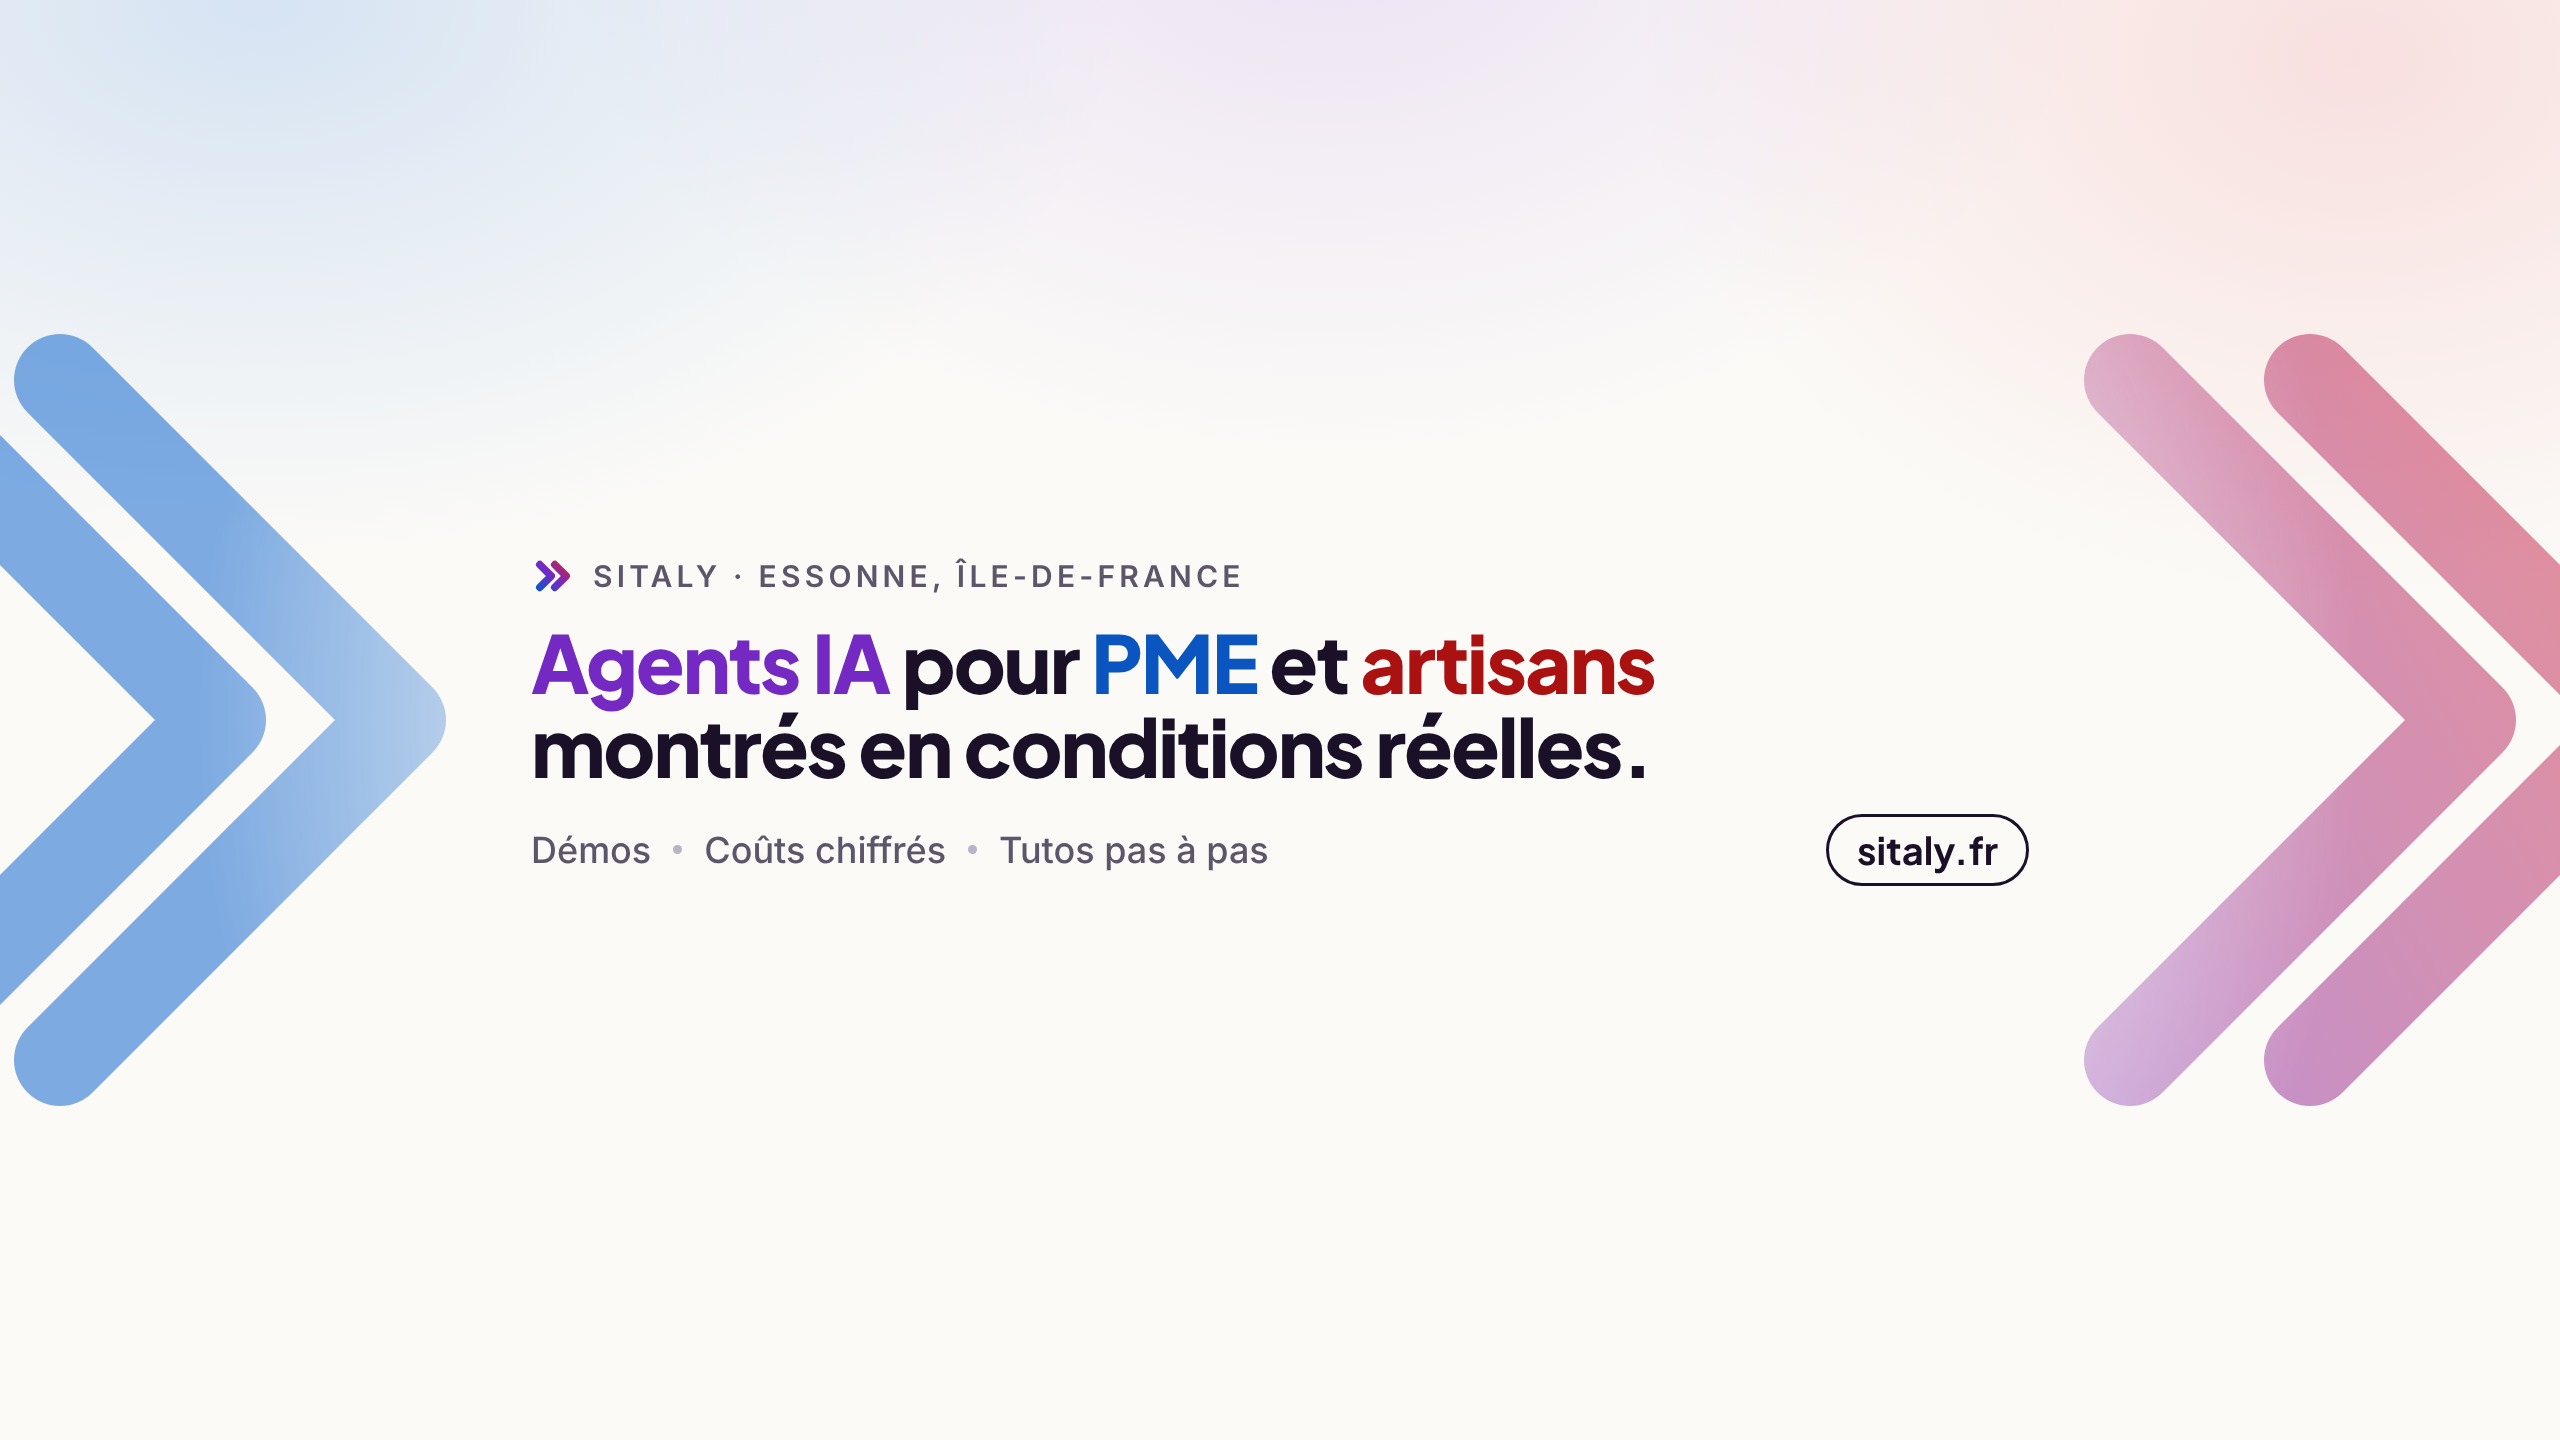
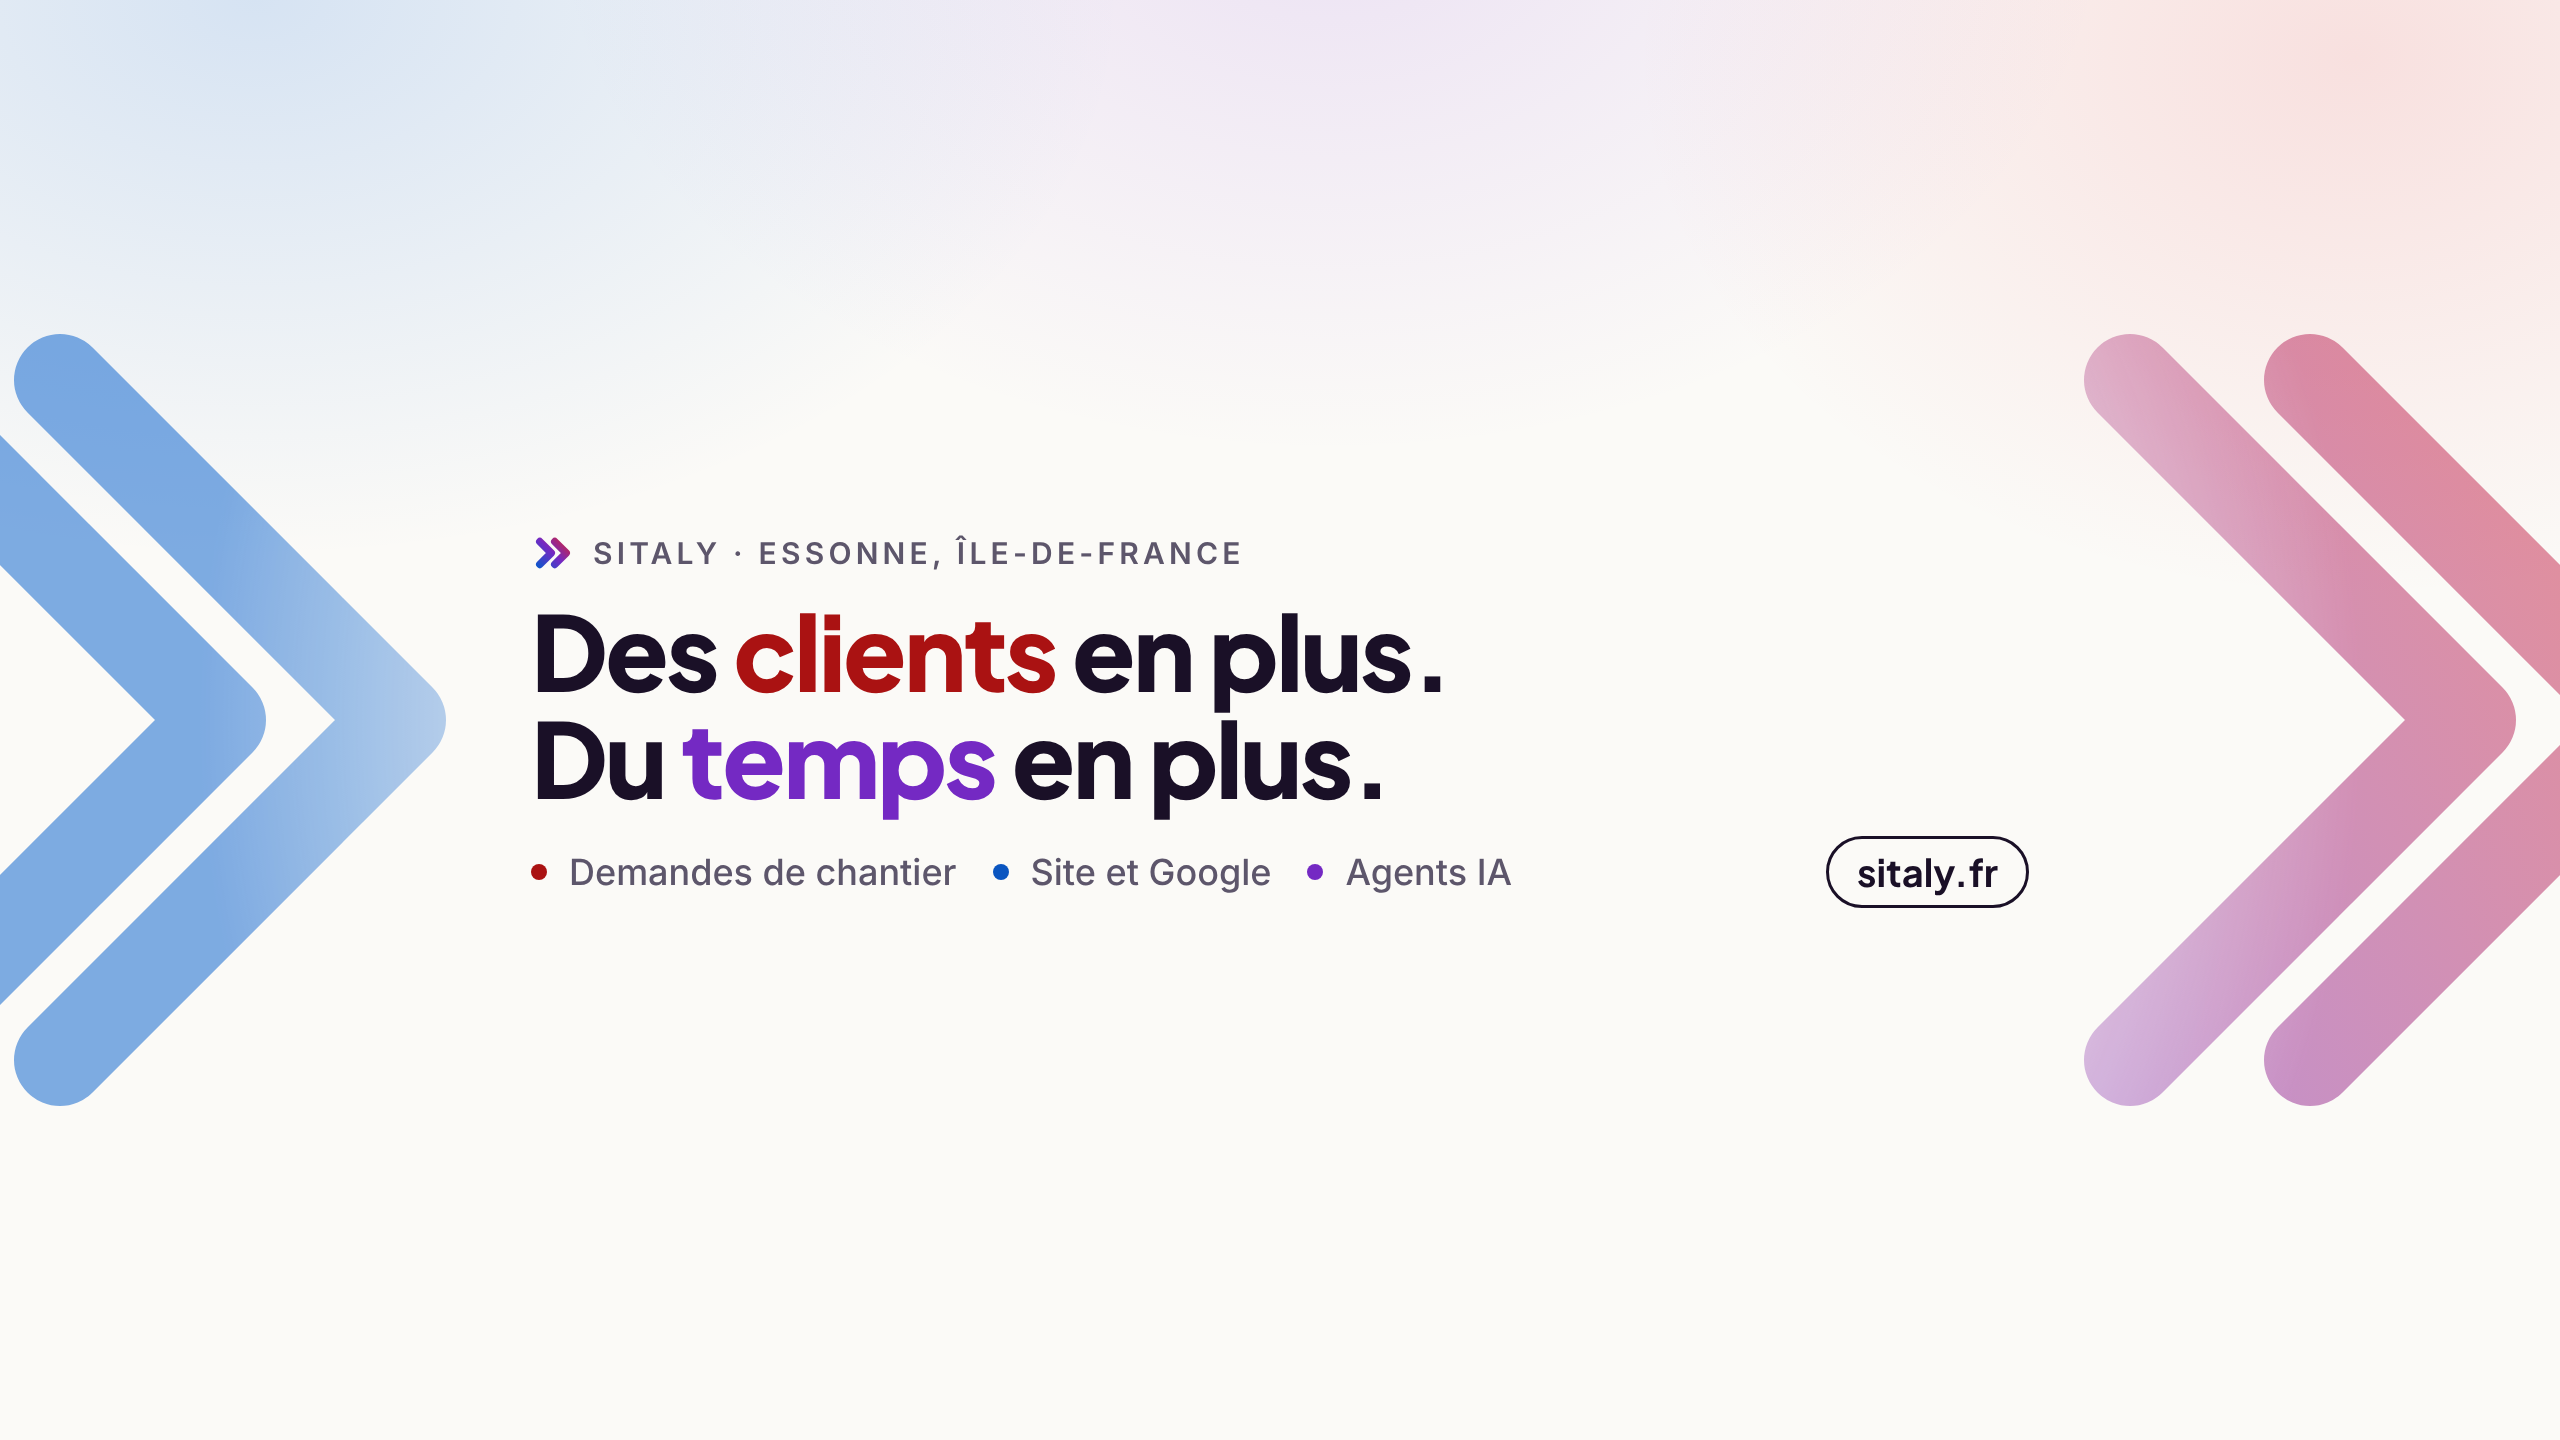
YouTube : bannière et textes recentrés sur l'apport de clients
Claude-Session: https://claude.ai/code/session_01G9SzTYsADUa43EyuhgWyrX

Changed region(s): [[0.1875, 0.375, 0.6562, 0.625], [0.7188, 0.5625, 0.7812, 0.625]]

diff --git a/brand/youtube/banniere-youtube.html b/brand/youtube/banniere-youtube.html
@@ -16,10 +16,10 @@ svg.deco{position:absolute;inset:0}
 .safe{position:absolute;left:507px;top:508px;width:1546px;height:423px;display:flex;flex-direction:column;justify-content:center;align-items:stretch;padding:0 24px}
 .eyebrow{font:600 30px/1 "Inter";letter-spacing:.14em;text-transform:uppercase;color:var(--muted);display:flex;align-items:center;gap:18px}
 .eyebrow svg{width:44px;height:44px}
-h1{margin-top:22px;font:800 80px/1.05 "Jakarta";letter-spacing:-.025em;color:var(--ink)}
+h1{margin-top:22px;font:800 104px/1.02 "Jakarta";letter-spacing:-.025em;color:var(--ink)}
 h1 .p{color:var(--purple)} h1 .b{color:var(--blue)} h1 .r{color:var(--red)}
 .row{margin-top:26px;display:flex;align-items:center;gap:22px;font:500 36px/1 "Inter";color:var(--muted)}
-.row i{width:9px;height:9px;border-radius:50%;background:#b9b3c4;display:block}
+.row .d{width:16px;height:16px;border-radius:50%;display:block;margin-left:14px}.row .d:first-child{margin-left:0}.row .d.r{background:var(--red)}.row .d.b{background:var(--blue)}.row .d.p{background:var(--purple)}
 .url{margin-left:auto;font:700 38px/1 "Jakarta";color:var(--ink);padding:14px 28px;border:3px solid var(--ink);border-radius:999px}
 .guide .safe{outline:4px dashed #e0115f}
 .guide .desk{position:absolute;left:0;top:508px;width:2560px;height:423px;outline:4px dashed #0a55c0}
@@ -37,8 +37,8 @@ h1 .p{color:var(--purple)} h1 .b{color:var(--blue)} h1 .r{color:var(--red)}
 </g></svg>
 <div class="safe">
   <div class="eyebrow"><svg viewBox="0 0 100 100"><defs><linearGradient id="s" gradientUnits="userSpaceOnUse" x1="12" y1="88" x2="88" y2="12"><stop offset="0" stop-color="#005ccc"/><stop offset=".5" stop-color="#7429c3"/><stop offset="1" stop-color="#df2321"/></linearGradient></defs><g fill="none" stroke="url(#s)" stroke-width="17" stroke-linecap="round" stroke-linejoin="round"><path d="M20 24 46 50 20 76"/><path d="M54 24 80 50 54 76"/></g></svg>Sitaly · Essonne, Île-de-France</div>
-  <h1><span class="p">Agents IA</span> pour <span class="b">PME</span> et <span class="r">artisans</span><br>montrés en conditions réelles.</h1>
-  <div class="row"><span>Démos</span><i></i><span>Coûts chiffrés</span><i></i><span>Tutos pas à pas</span><span class="url">sitaly.fr</span></div>
+  <h1>Des <span class="r">clients</span> en plus.<br>Du <span class="p">temps</span> en plus.</h1>
+  <div class="row"><b class="d r"></b><span>Demandes de chantier</span><b class="d b"></b><span>Site et Google</span><b class="d p"></b><span>Agents IA</span><span class="url">sitaly.fr</span></div>
 </div>
 <div class="desk"></div>
 </div></body></html>

diff --git a/brand/youtube/youtube-textes.md b/brand/youtube/youtube-textes.md
@@ -6,25 +6,22 @@
 
 ## Description (YouTube Studio > Personnalisation > Informations de base)
 
-Agents IA pour PME et artisans : démos réelles, coûts chiffrés, tutos pas à pas.
+Des clients en plus, du temps en plus : Sitaly aide les artisans, indépendants et PME à trouver des clients, à être visibles en ligne et à gagner du temps.
 
-Ici, je montre des agents IA au travail dans une vraie entreprise : décrocher le téléphone pendant un chantier, prendre un rendez-vous, envoyer un SMS après un appel manqué, relancer un devis, répondre aux avis Google.
+Sur cette chaîne, des cas concrets, chiffres à l'appui :
+- trouver des clients : demandes de chantier, Google Ads, ChatGPT Ads
+- être trouvé en ligne : site internet qui convertit, fiche Google, avis, référencement local
+- gagner du temps : agents IA qui décrochent, prennent les rendez-vous et relancent les devis
 
-Pas de théorie : l'écran, l'appel, le résultat, et ce que ça coûte par mois.
+Pas de théorie : ce qu'on met en place, ce que ça rapporte, ce que ça coûte.
 
-Au programme :
-- démos d'agents vocaux et d'automatisations (n8n, Vapi, Twilio, Cal.com)
-- les règles à respecter : AI Act, RGPD, démarchage téléphonique
-- ChatGPT Ads et Google Ads expliqués pour les TPE
-- sites internet d'artisans décortiqués
-
-Je suis Teddy Vidal, fondateur de Sitaly, à Brétigny-sur-Orge (Essonne). J'installe et je pilote ces outils pour les PME et les artisans, en Île-de-France et partout en France.
+Je suis Teddy Vidal, fondateur de Sitaly, à Brétigny-sur-Orge (Essonne). J'accompagne les entreprises en Île-de-France et partout en France.
 
 Diagnostic offert de 30 minutes : https://sitaly.fr
 
 ## Mots-clés de la chaîne (Paramètres > Chaîne > Informations de base)
 
-agent IA, agent IA PME, agent vocal IA, standard téléphonique IA, intelligence artificielle entreprise, IA pour artisans, automatisation PME, automatisation n8n, tuto n8n, Vapi, prise de rendez-vous automatique, relance devis, avis Google, ChatGPT Ads, Google Ads artisan, site internet artisan, agence IA, TPE, Essonne, Sitaly
+trouver des clients, trouver des clients artisan, demandes de chantier, génération de leads, Google Ads artisan, ChatGPT Ads, publicité en ligne, site internet artisan, création site internet, fiche Google, avis Google, référencement local, visibilité en ligne, agent IA, agent IA PME, automatisation PME, gagner du temps entreprise, artisan, TPE, PME, Essonne, Sitaly
 
 ## Liens (dans cet ordre, le premier s'affiche sous le nom)
 1. Diagnostic offert : https://sitaly.fr
